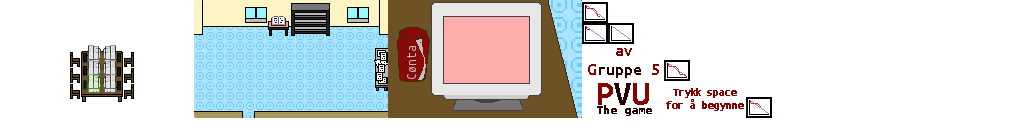
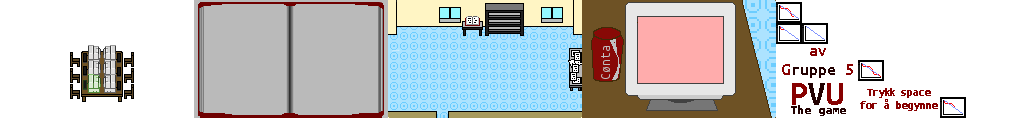
Added a book

diff --git a/PVUgame/src/no/hist/gruppe5/pvu/Assets.java b/PVUgame/src/no/hist/gruppe5/pvu/Assets.java
@@ -63,10 +63,14 @@ public class Assets {
     public static TextureRegion msTable;
     public static TextureRegion msPcBackground;
     public static TextureRegion[] msBurndownCarts;
+
     // INTRO SCREEN
     public static TextureRegion introMainLogo;
     public static TextureRegion introTeamLogo;
     public static TextureRegion introPressSpace;
+
+    // BOOK SCREEN
+    public static TextureRegion bookBook;
 
 
 
@@ -111,6 +115,8 @@ public class Assets {
         introMainLogo = msAtlas.findRegion("logo");
         introTeamLogo = msAtlas.findRegion("logo_2_group");
         introPressSpace = msAtlas.findRegion("trykk");
+
+        bookBook = msAtlas.findRegion("book");
     }
 
     public static TextureRegion getAvatarRegion(int region) {
